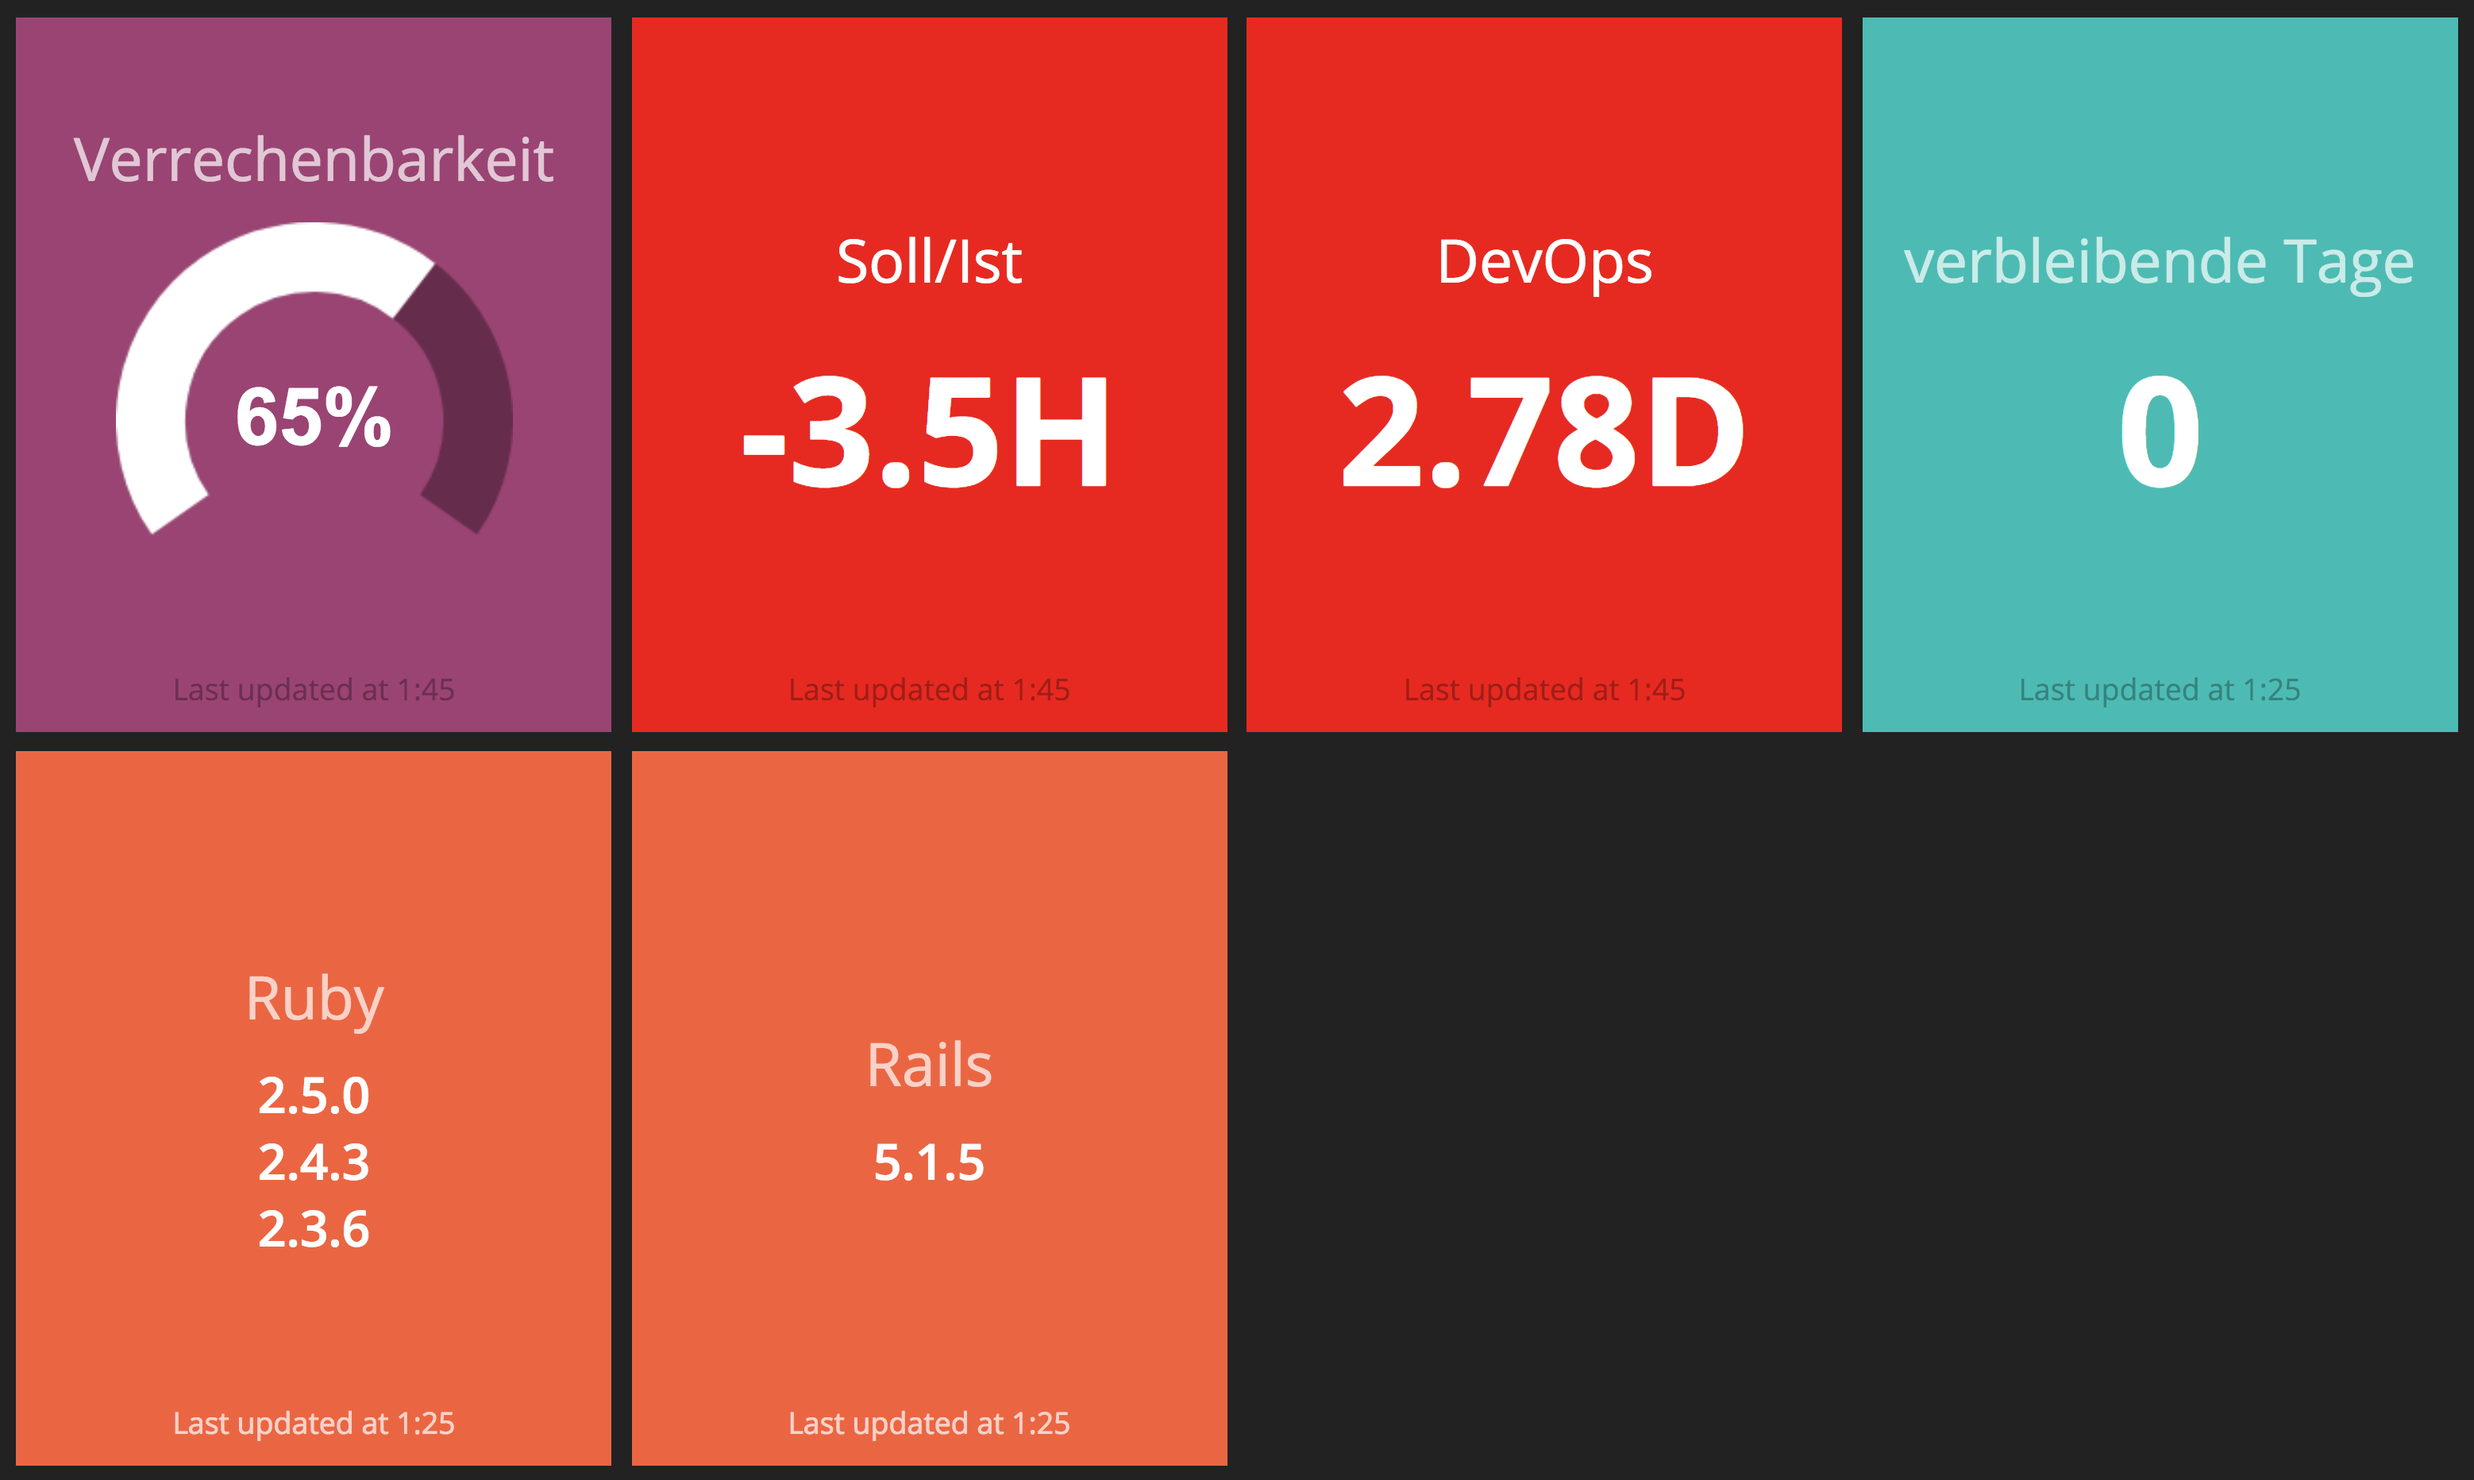
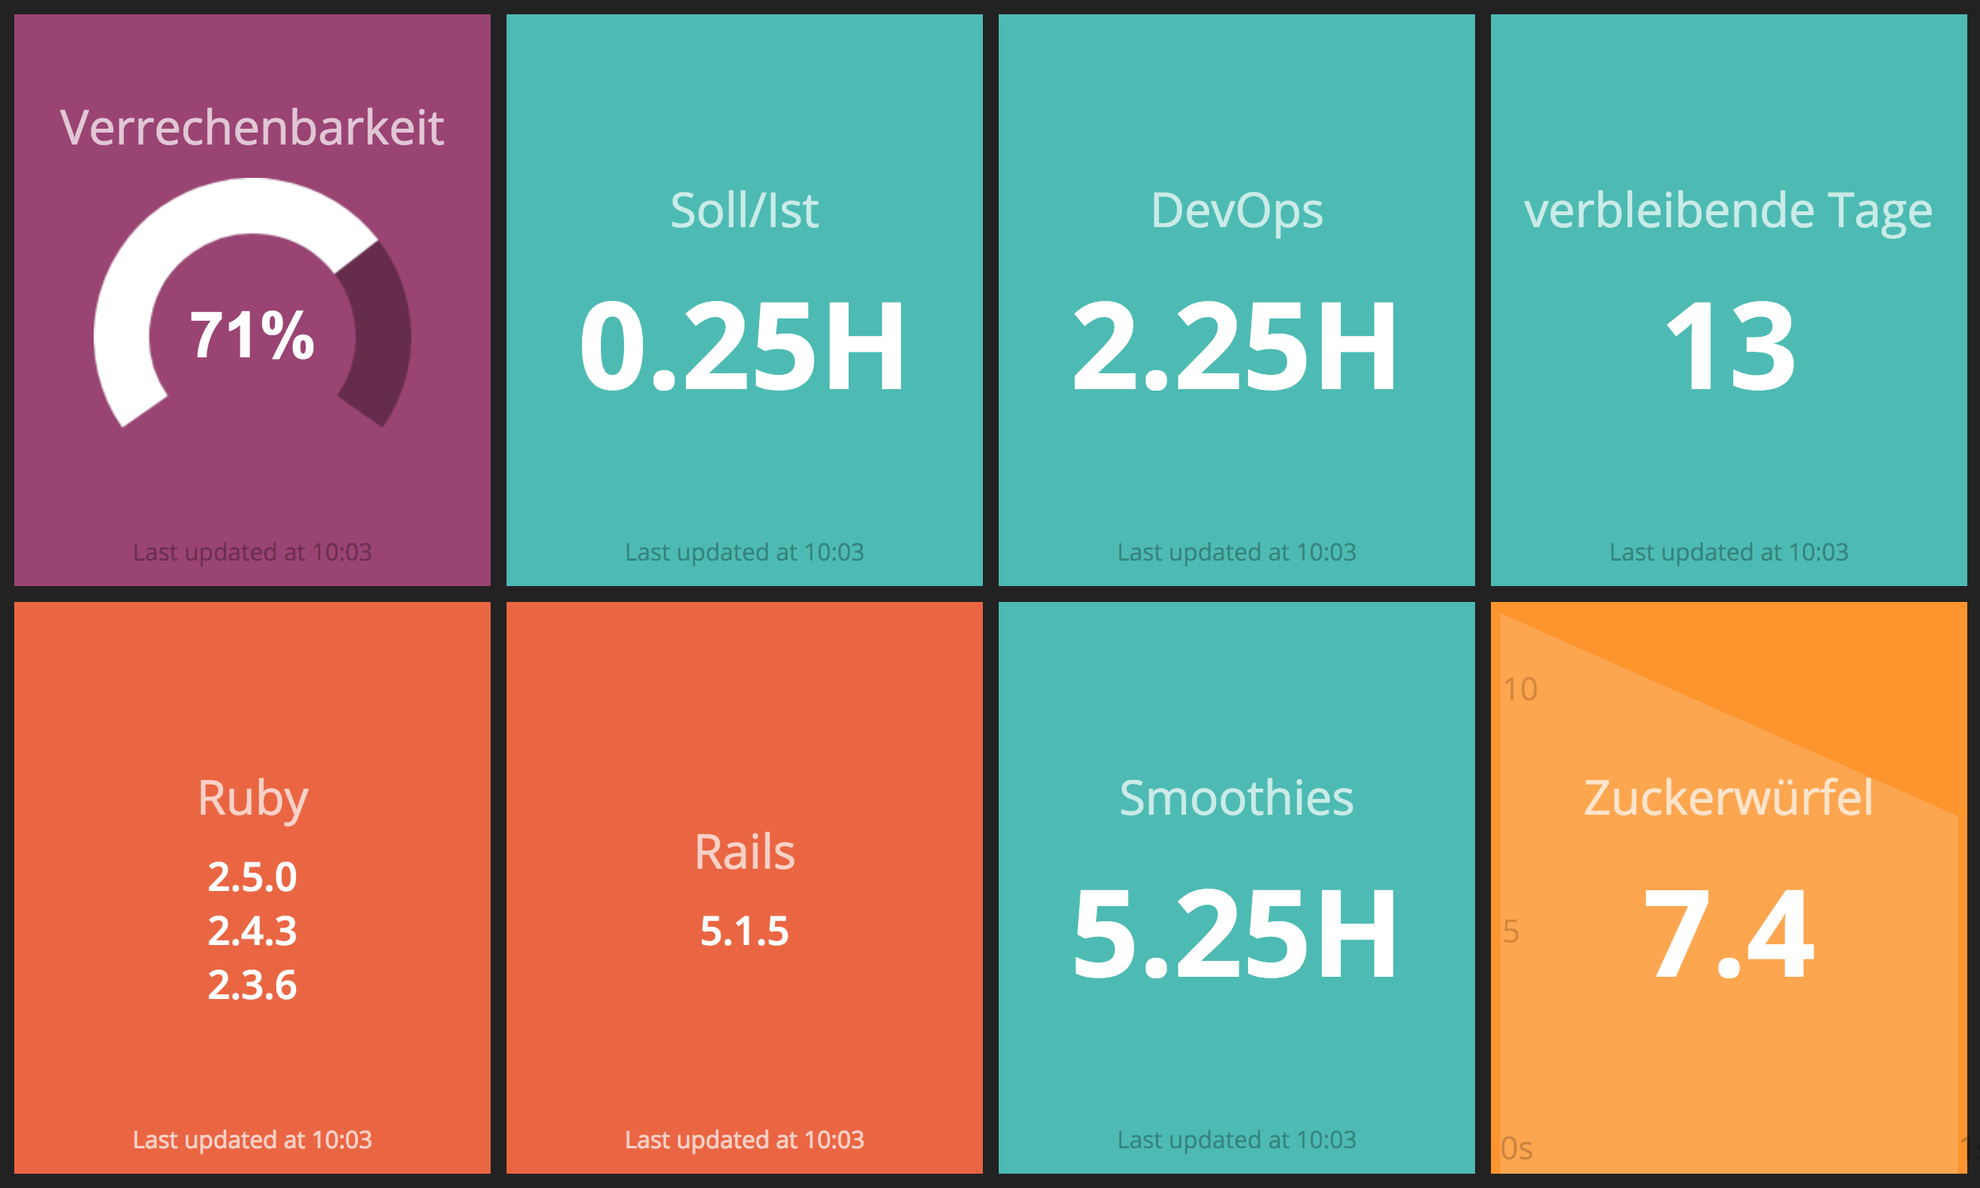
Added another project and sugar cubes consumed on the current day.

diff --git a/lib/moco/project_booked.rb b/lib/moco/project_booked.rb
@@ -14,7 +14,13 @@ class Moco::ProjectBooked
       latest_month = browser.page.css('.nav-tabs li:not([class=disabled])').last.css('a').first
       browser.click(latest_month)
 
-      browser.page.css("td:contains('#{@project}') + td").first.text
+      project_hours = browser.page.css("td:contains('#{@project}') + td").first
+      
+      if project_hours
+        project_hours.text
+      else
+        0
+      end
     end
   end
 end

diff --git a/jobs/sugar_cubes.rb b/jobs/sugar_cubes.rb
@@ -1,0 +1,13 @@
+require 'open-uri'
+
+SCHEDULER.every '10m', first_in: 0 do |job|
+  data = URI.parse("http://sugarcubes.ch/api/sugar_cubes?token=#{ENV['SUGAR_CUBES_TOKEN']}").read
+
+  json = JSON.parse(data)
+  points = json
+    .map { |date, cubes| [date, cubes] }
+    .sort_by { |entry| Date.parse(entry[0]) }
+    .map.with_index { |entry, index| { x: index, y: entry[1] } }
+
+  send_event('sugar_cubes', points: points)
+end

diff --git a/jobs/smoothies_booked.rb b/jobs/smoothies_booked.rb
@@ -1,0 +1,12 @@
+SCHEDULER.every '10m', first_in: 0 do |job|
+  hours = Moco::ProjectBooked.new('Internal 2018 Smooth Operators').value.to_f
+
+  display = if hours > 16
+              days = hours / 8.0
+              "#{days.round(2)}d"
+            else
+              "#{hours}h"
+            end
+
+  send_event('smoothies_booked', { current: display, status: hours > 16 ? 'danger' : nil })
+end

diff --git a/README.md b/README.md
@@ -6,10 +6,11 @@ This is my personal dashboard used at work. It includes:
 
 - Ratio of billable versus non-billable work time of the current month
 - Amount of overtime/minus hours of the current year
-- Hours in the current month worked on a specific project
+- Hours in the current month worked on specific projects (DevOps and Smoothies)
 - Work days left in the current month (gives some context to the other data)
 - Stable versions of Ruby
 - Latest stable Rails version
+- Amount of sugar cubes consumed today (tracked on https://sugarcubes.ch)
 
 ## Setup
 
